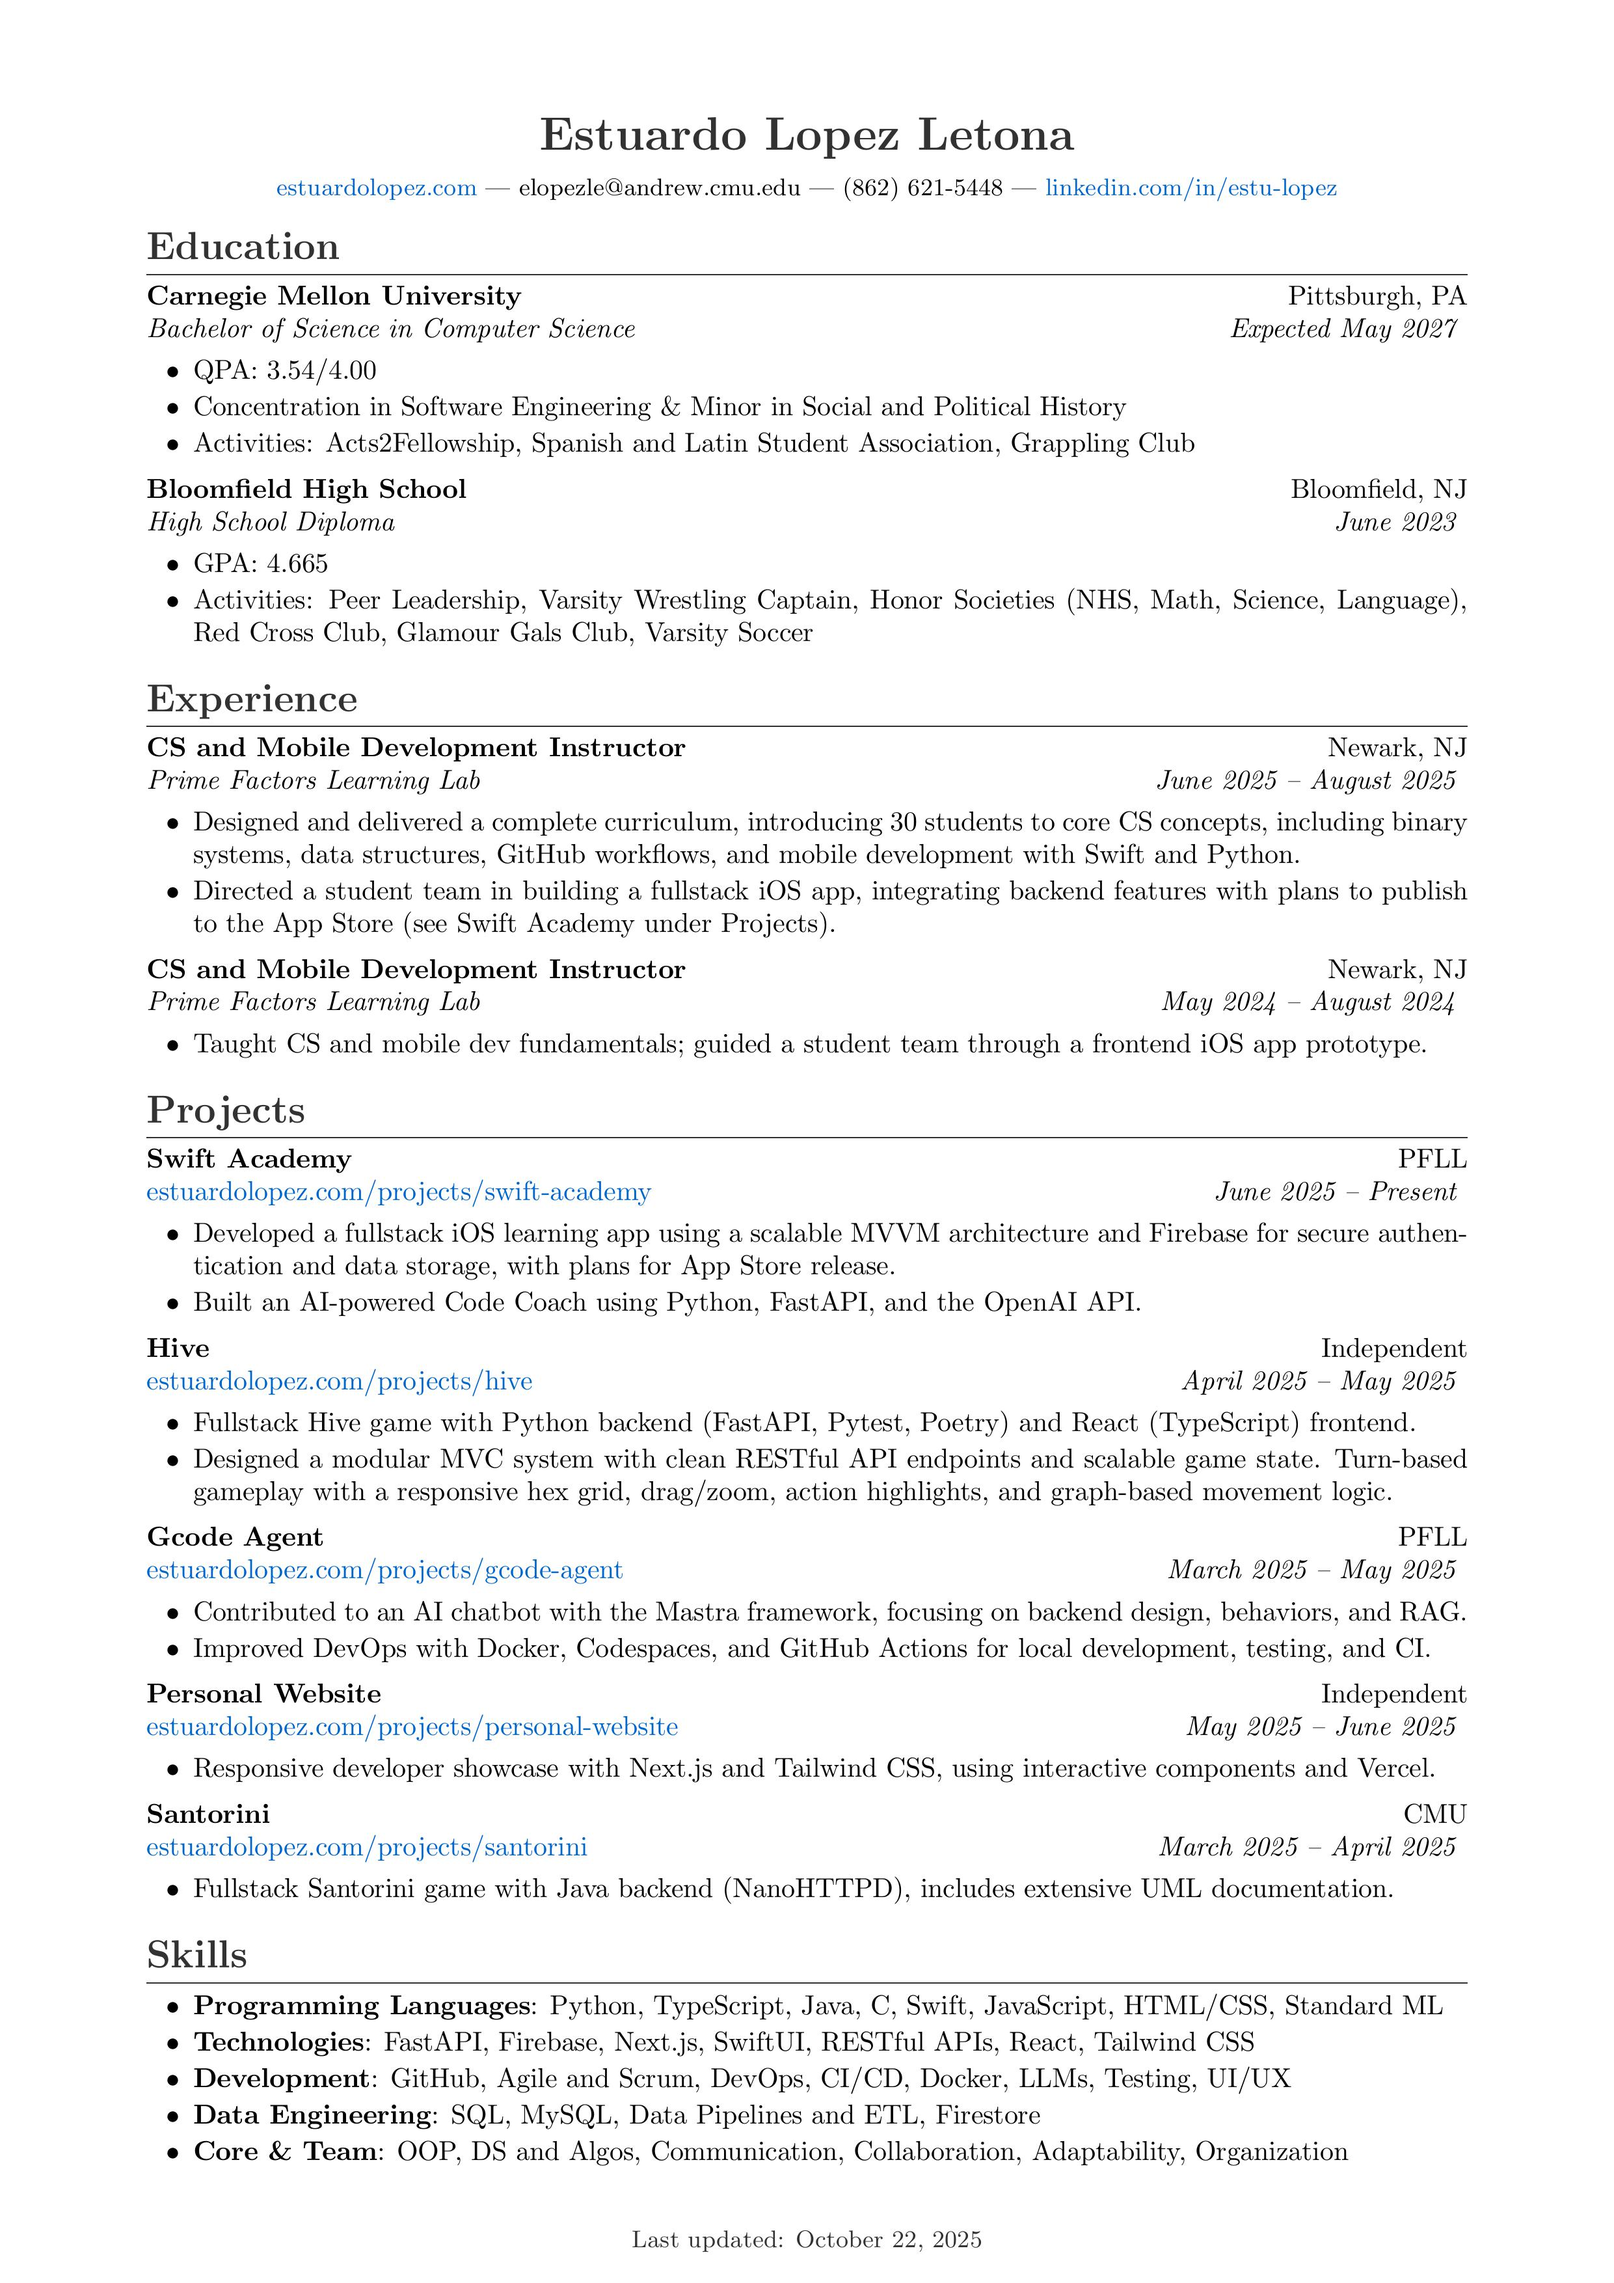
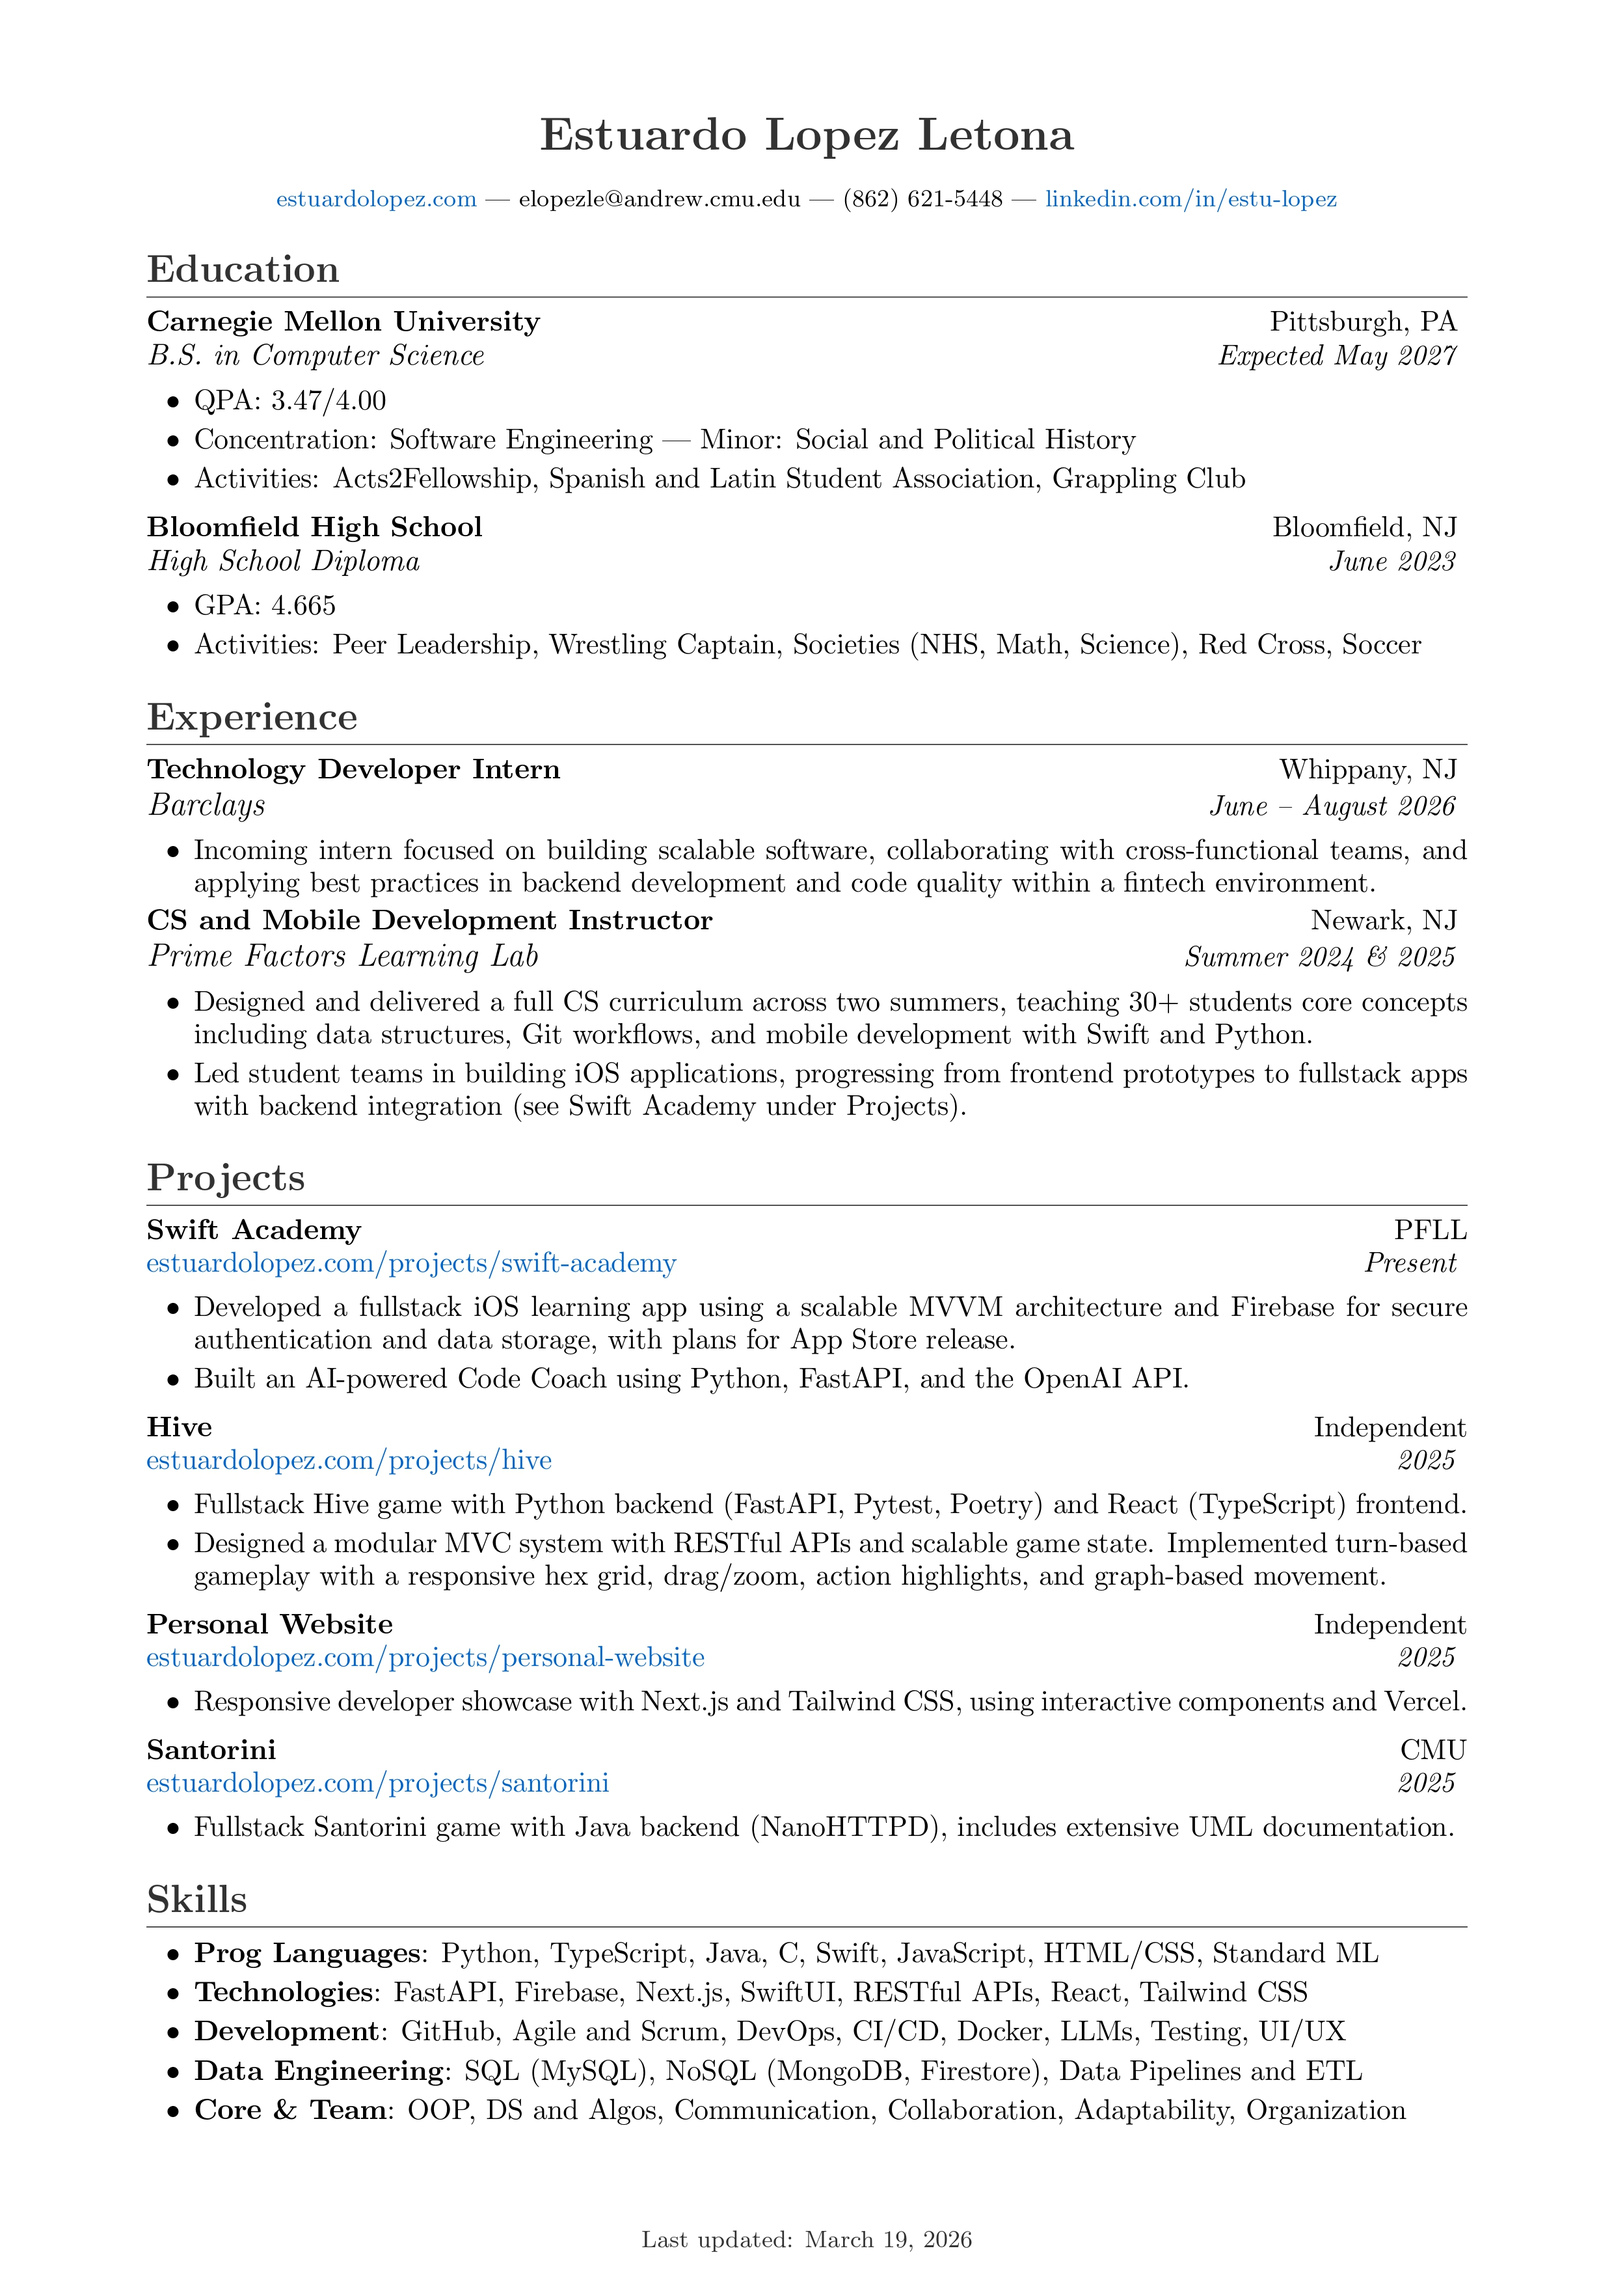
Refactor project timelines for consistency; add Gcode Agent project details

diff --git a/src/components/projects/projectsData.ts b/src/components/projects/projectsData.ts
@@ -60,7 +60,7 @@ export const projects: Project[] = [
       },
     ],
     timeline: 'June 2025 - Present',
-    shortTimeline: 'Jun 2025 - Present',
+    shortTimeline: 'Present',
     organization: 'PFLL',
   },
   {
@@ -97,30 +97,9 @@ export const projects: Project[] = [
         icon: 'video',
       },
     ],
-    timeline: 'April 2025 - May 2025',
-    shortTimeline: 'Apr - May 2025',
+    timeline: 'April - May 2025',
+    shortTimeline: '2025',
     organization: 'Personal Project',
-  },
-  {
-    slug: 'gcode-agent',
-    title: 'Gcode Agent',
-    subtitle: 'LLM Recruitment Chatbot',
-    description:
-      "An AI assistant built with the Mastra framework to support PFLL's student outreach efforts.",
-    imageUrl: '/images/projects/gcode_agent.jpg',
-    bannerImageUrl: '/images/projects/gcode_agent_banner.jpg',
-    centerImage: false,
-    category: ['ai'],
-    tech: ['Mastra', 'LLM', 'CI/CD', 'TypeScript', 'Docker', 'GitHub Actions', 'RAG'],
-    highlights: [
-      'Worked under mentorship to improve backend architecture and DevOps workflows for an LLM-powered chatbot',
-      'Explored Mastra and behavior-based design patterns using retrieval-augmented generation (RAG)',
-      'Built experience with Docker, Codespaces, and GitHub Actions for local development, testing, and CI',
-    ],
-    links: [],
-    timeline: 'March 2025 - May 2025',
-    shortTimeline: 'Mar - May 2025',
-    organization: 'PFLL',
   },
   {
     slug: 'personal-website',
@@ -141,8 +120,8 @@ export const projects: Project[] = [
     links: [
       { label: 'GitHub', url: 'https://github.com/estulpz202/personal-website', icon: 'github' },
     ],
-    timeline: 'May 2025 - June 2025',
-    shortTimeline: 'May - Jun 2025',
+    timeline: 'May - June 2025',
+    shortTimeline: '2025',
     organization: 'Personal Project',
   },
   {
@@ -168,8 +147,8 @@ export const projects: Project[] = [
         icon: 'video',
       },
     ],
-    timeline: 'March 2025 - April 2025',
-    shortTimeline: 'Mar - Apr 2025',
+    timeline: 'March - April 2025',
+    shortTimeline: '2025',
     organization: 'CMU 17-214',
   },
   {
@@ -192,8 +171,29 @@ export const projects: Project[] = [
       { label: 'GitHub', url: 'https://github.com/pflc3/ThePackApp', icon: 'github' },
       { label: 'Demo', url: 'https://vimeo.com/1094857073', icon: 'video' },
     ],
-    timeline: 'June 2024 - Aug 2024',
-    shortTimeline: 'Jun - Aug 2024',
+    timeline: 'June - Aug 2024',
+    shortTimeline: '2024',
+    organization: 'PFLL',
+  },
+  {
+    slug: 'gcode-agent',
+    title: 'Gcode Agent',
+    subtitle: 'LLM Recruitment Chatbot',
+    description:
+      "An AI assistant built with the Mastra framework to support PFLL's student outreach efforts.",
+    imageUrl: '/images/projects/gcode_agent.jpg',
+    bannerImageUrl: '/images/projects/gcode_agent_banner.jpg',
+    centerImage: false,
+    category: ['ai'],
+    tech: ['Mastra', 'LLM', 'CI/CD', 'TypeScript', 'Docker', 'GitHub Actions', 'RAG'],
+    highlights: [
+      'Worked under mentorship to improve backend architecture and DevOps workflows for an LLM-powered chatbot',
+      'Explored Mastra and behavior-based design patterns using retrieval-augmented generation (RAG)',
+      'Built experience with Docker, Codespaces, and GitHub Actions for local development, testing, and CI',
+    ],
+    links: [],
+    timeline: 'March - May 2025',
+    shortTimeline: '2025',
     organization: 'PFLL',
   },
 ];
